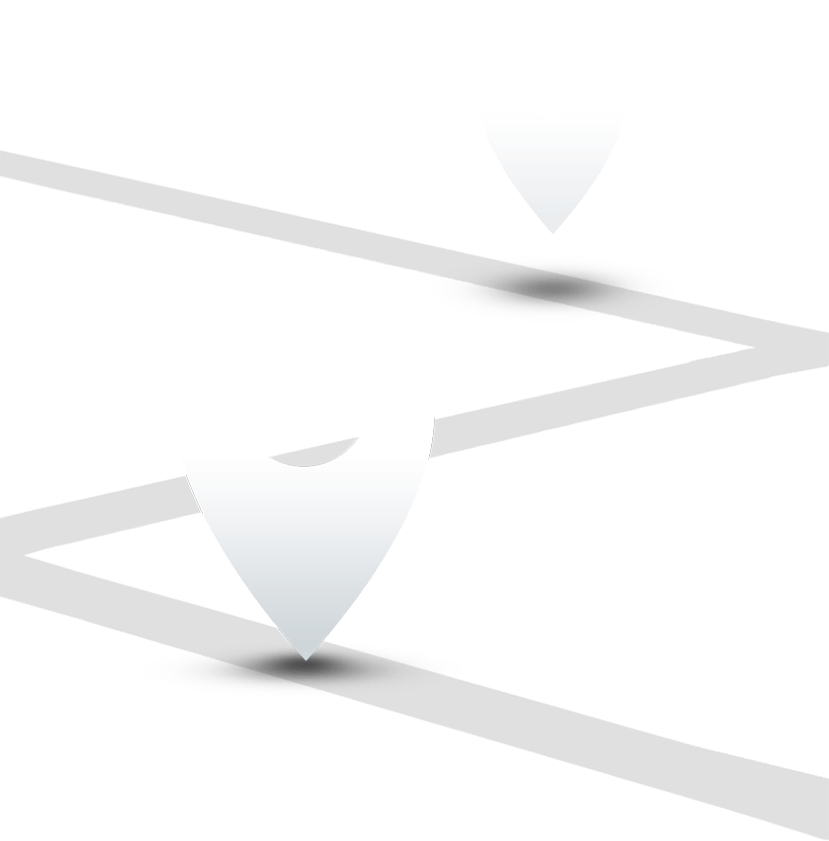
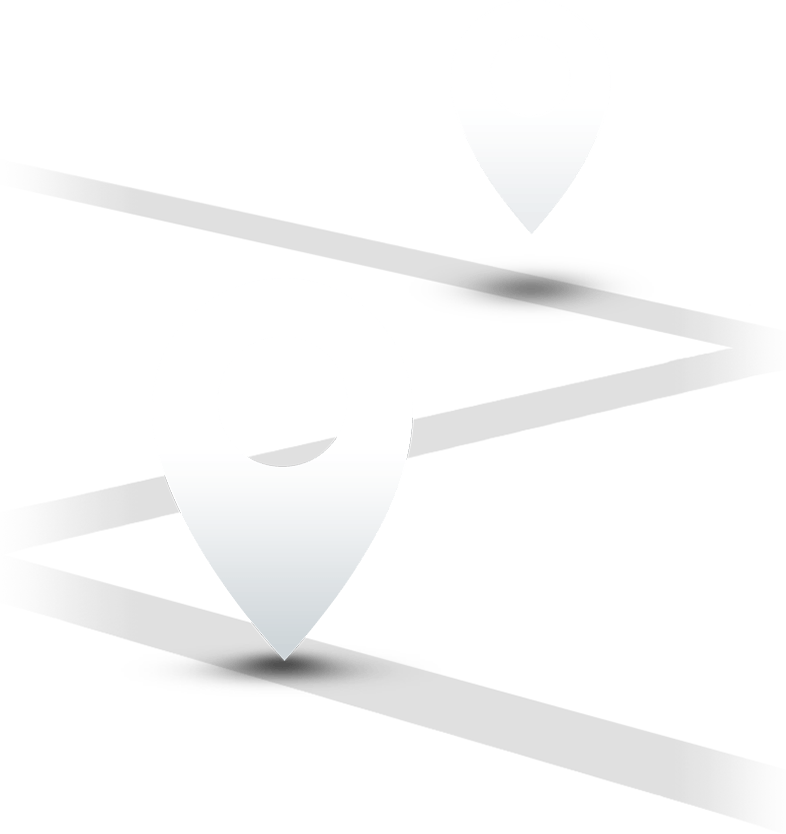
fix r thumbnail bug

diff --git a/staging/css/main.css b/staging/css/main.css
@@ -406,9 +406,9 @@
   height: 95%
 }
 .Works-img--routific {
-  background: url('../img/home-routific.png') no-repeat top center;
+  background: url('../img/home-routific.png') no-repeat center;
   background-size: cover;
-  height: 96%
+  height: 100%
 }
 .Works-img--ht {
   top: 0;
@@ -443,6 +443,9 @@
     background-size: 92% auto;
     background-position: 4rem 2rem;
     height: 100%
+  }
+  .Works-img--routific {
+    height: 94%
   }
   .Works-img--ht {
     background-size: 75% auto;
